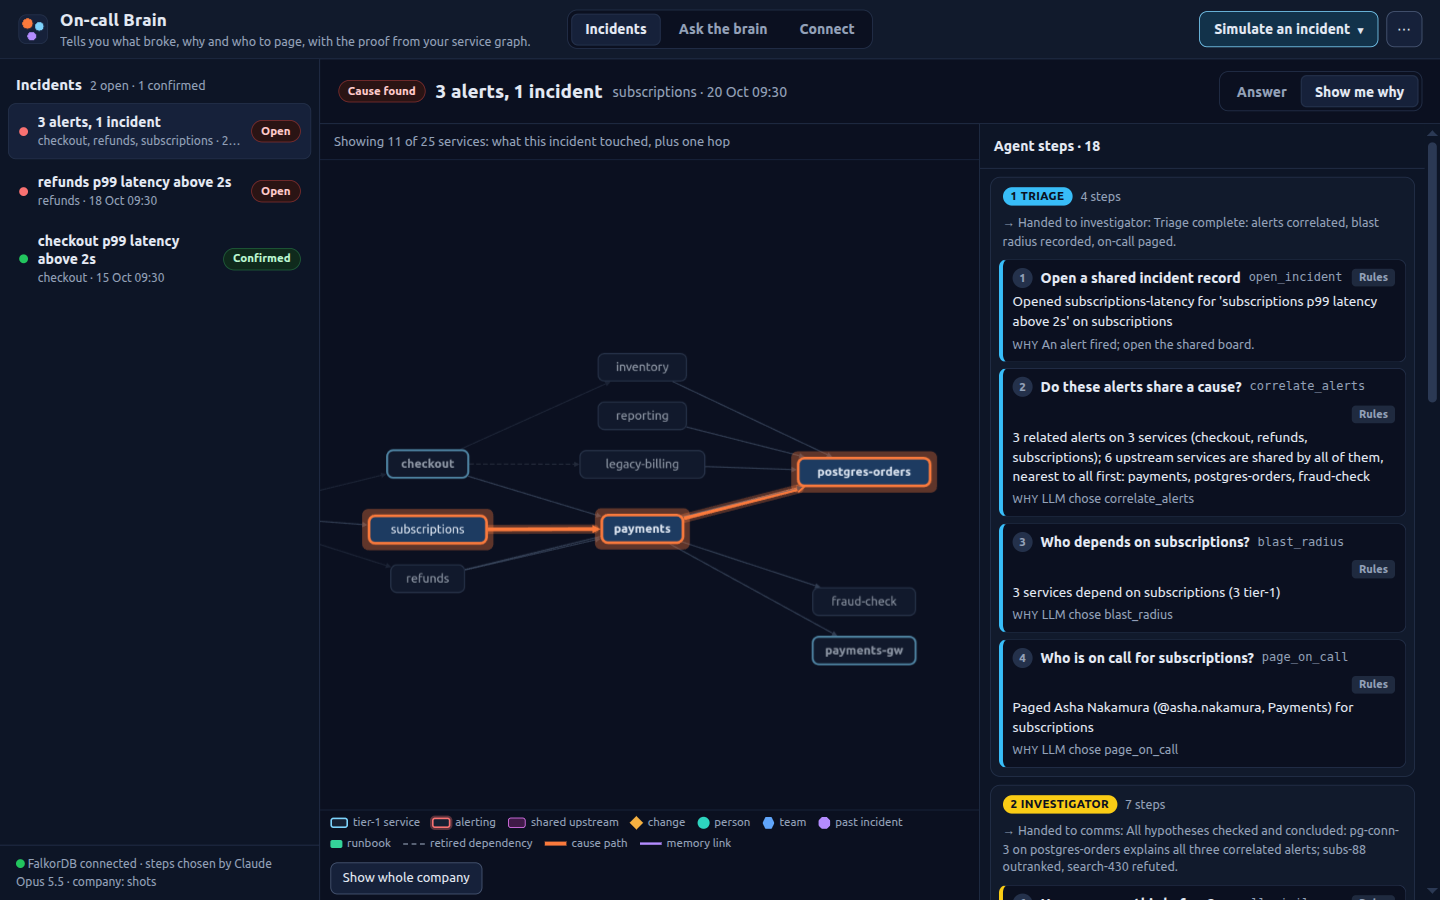
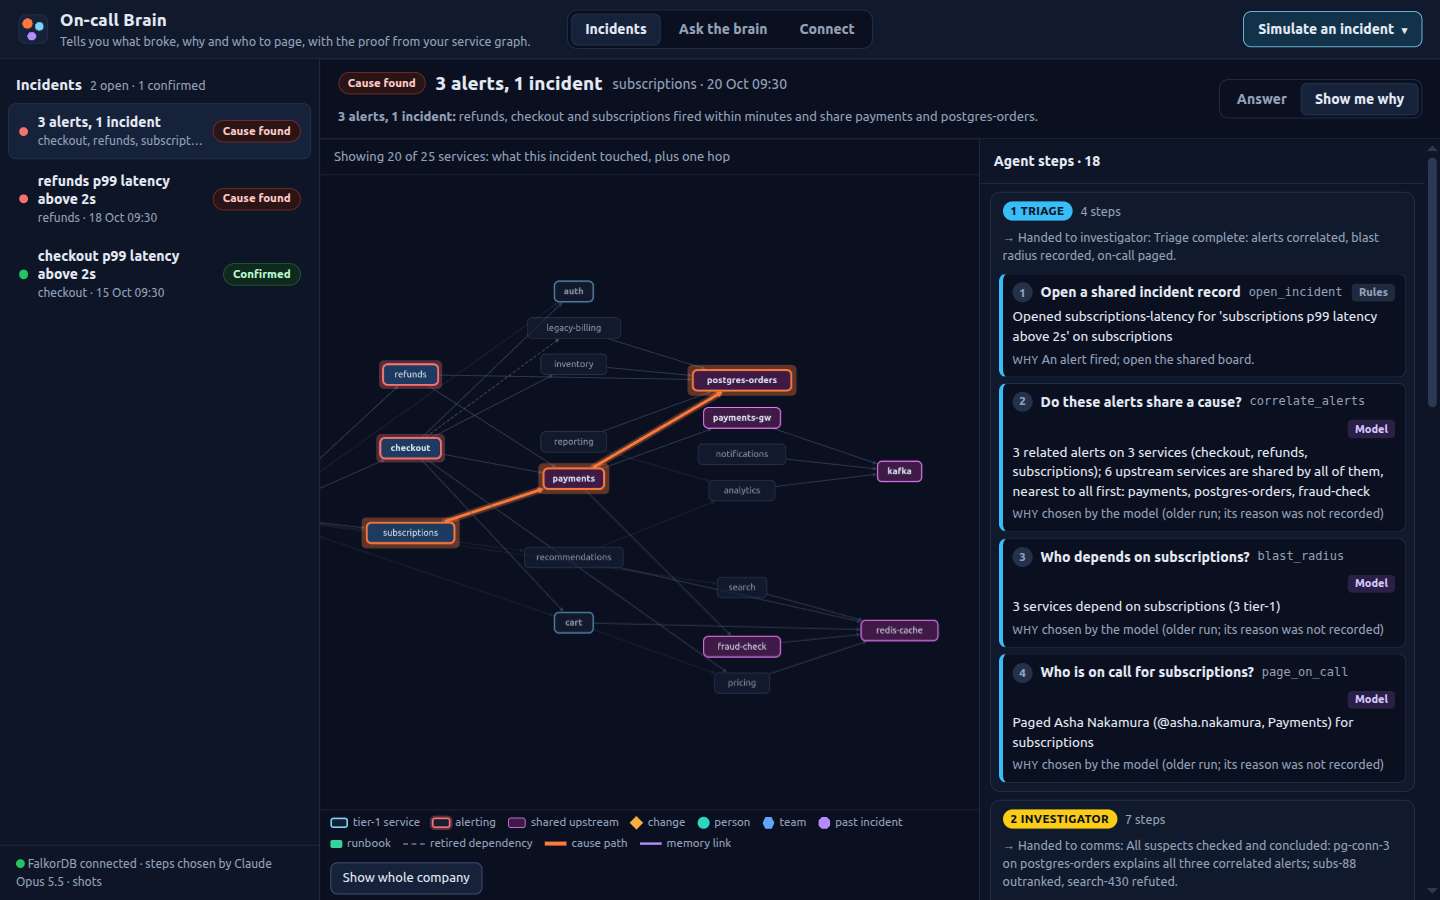
ui: Connect code blocks wrap at spaces

diff --git a/web/style.css b/web/style.css
@@ -404,7 +404,8 @@ main > #graph-wrap { display: none; } /* only shown once moved into a slot */
 .connect-card ul { margin: 0; padding-left: 18px; display: grid; gap: 3px; }
 .code-wrap { position: relative; }
 .code-wrap .copy { position: absolute; top: 6px; right: 6px; }
-pre.code { margin: 0; padding: 10px 60px 10px 12px; border-radius: 8px; background: #0a1120; border: 1px solid var(--line); font-size: 12.5px; white-space: pre; overflow-x: auto; }
+pre.code { margin: 0; padding: 10px 64px 10px 12px; border-radius: 8px; background: #0a1120; border: 1px solid var(--line); font-size: 12.5px;
+  white-space: pre-wrap; overflow-wrap: break-word; } /* wraps at spaces; a long token breaks only when it must */
 .ok-line { color: #86efac; }
 
 /* ---------- toast ---------- */
